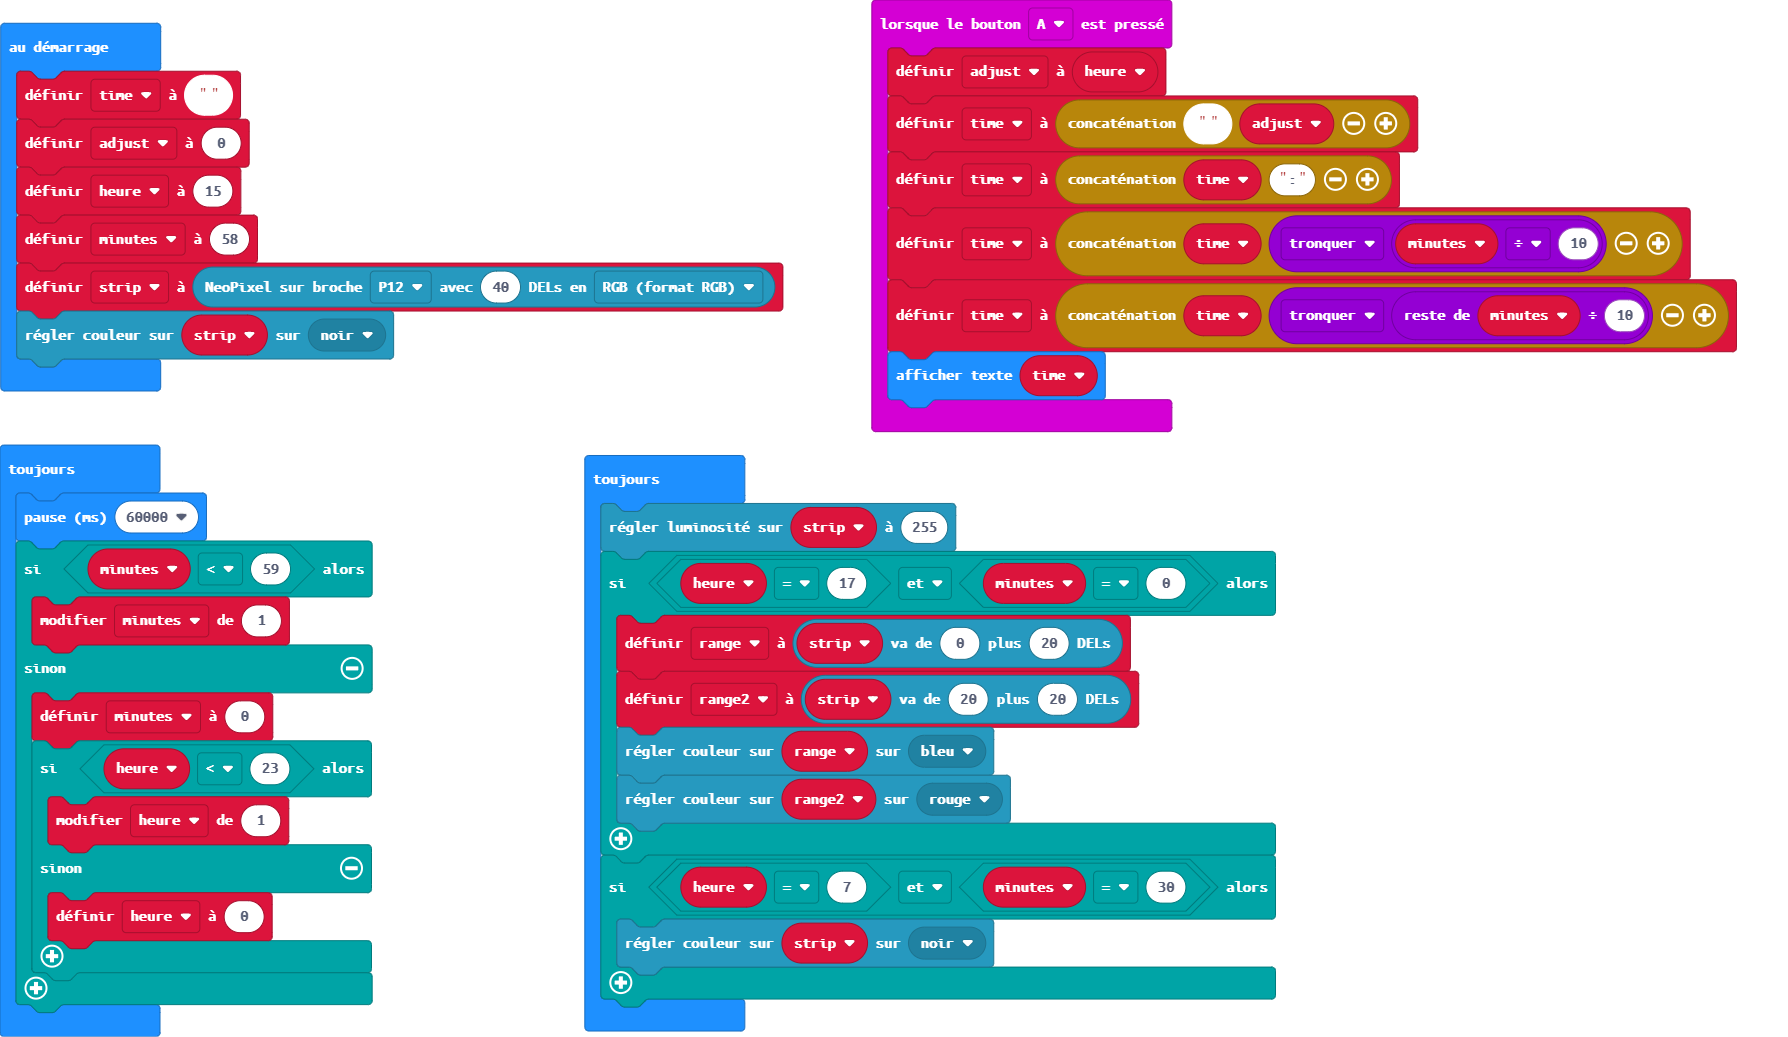
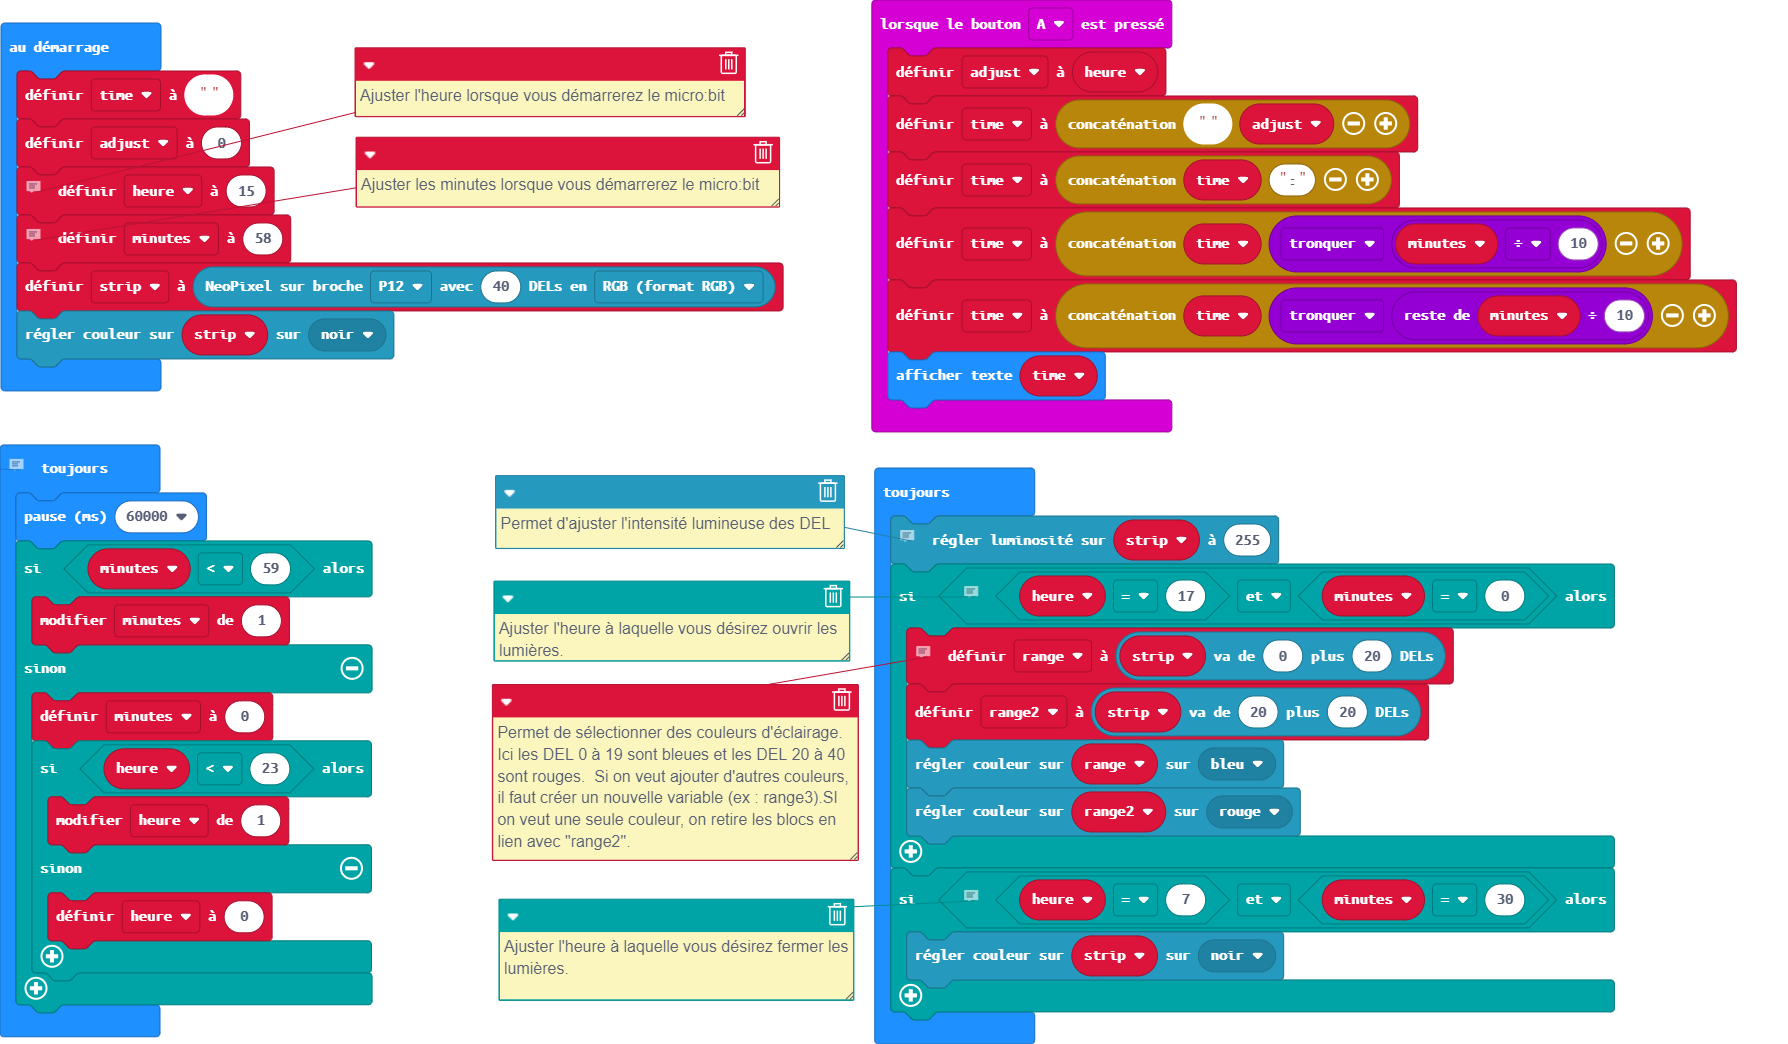
Mise à jour main.blocks, main.ts

diff --git a/main.ts b/main.ts
@@ -14,10 +14,13 @@ let adjust = 0
 let time = ""
 time = ""
 adjust = 0
+// Ajuster l'heure lorsque vous démarrerez le micro:bit
 heure = 15
+// Ajuster les minutes lorsque vous démarrerez le micro:bit
 minutes = 58
 let strip = neopixel.create(DigitalPin.P12, 40, NeoPixelMode.RGB)
 strip.showColor(neopixel.colors(NeoPixelColors.Black))
+// Ne pas toucher à cette partie du programme car elle gère votre horloge.
 basic.forever(function () {
     basic.pause(60000)
     if (minutes < 59) {
@@ -32,13 +35,17 @@ basic.forever(function () {
     }
 })
 basic.forever(function () {
+    // Permet d'ajuster l'intensité lumineuse des DEL
     strip.setBrightness(255)
+    // Ajuster l'heure à laquelle vous désirez ouvrir les lumières.
     if (heure == 17 && minutes == 0) {
+        // Permet de sélectionner des couleurs d'éclairage.  Ici les DEL 0 à 19 sont bleues et les DEL 20 à 40 sont rouges.  Si on veut ajouter d'autres couleurs, il faut créer un nouvelle variable (ex : range3).SI on veut une seule couleur, on retire les blocs en lien avec "range2".
         range = strip.range(0, 20)
         range2 = strip.range(20, 20)
         range.showColor(neopixel.colors(NeoPixelColors.Blue))
         range2.showColor(neopixel.colors(NeoPixelColors.Red))
     }
+    // Ajuster l'heure à laquelle vous désirez fermer les lumières.
     if (heure == 7 && minutes == 30) {
         strip.showColor(neopixel.colors(NeoPixelColors.Black))
     }
